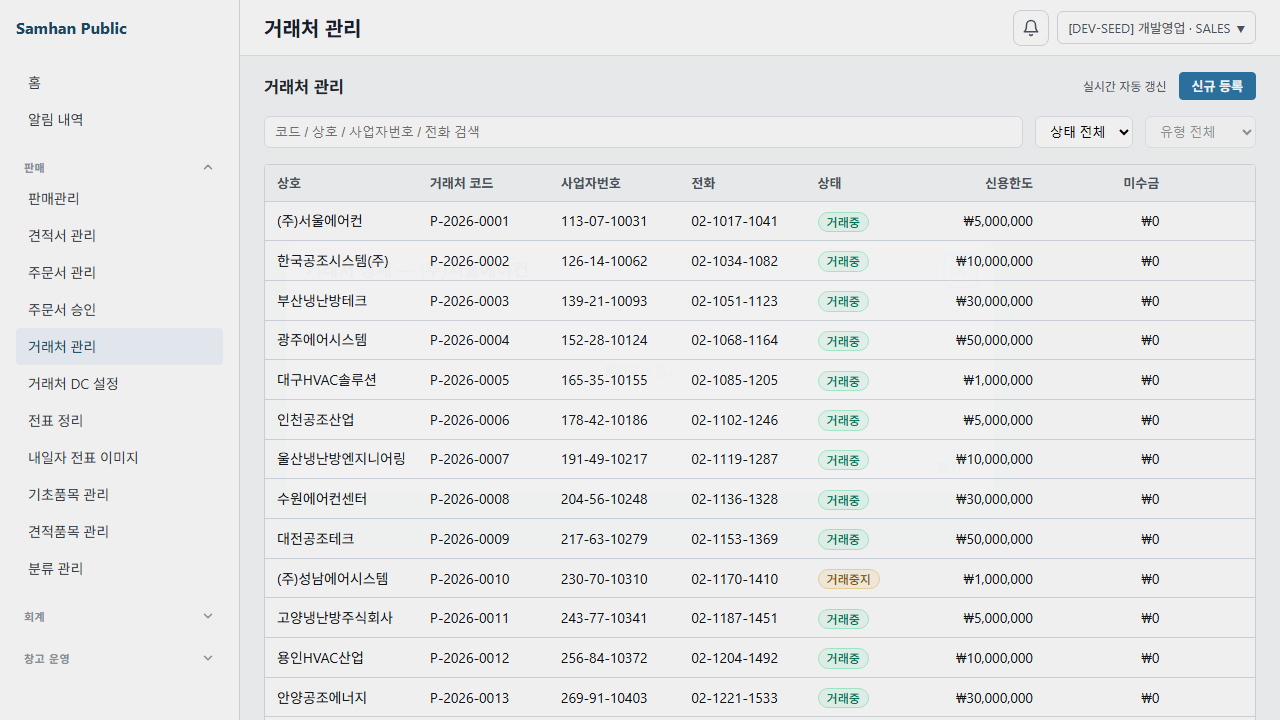
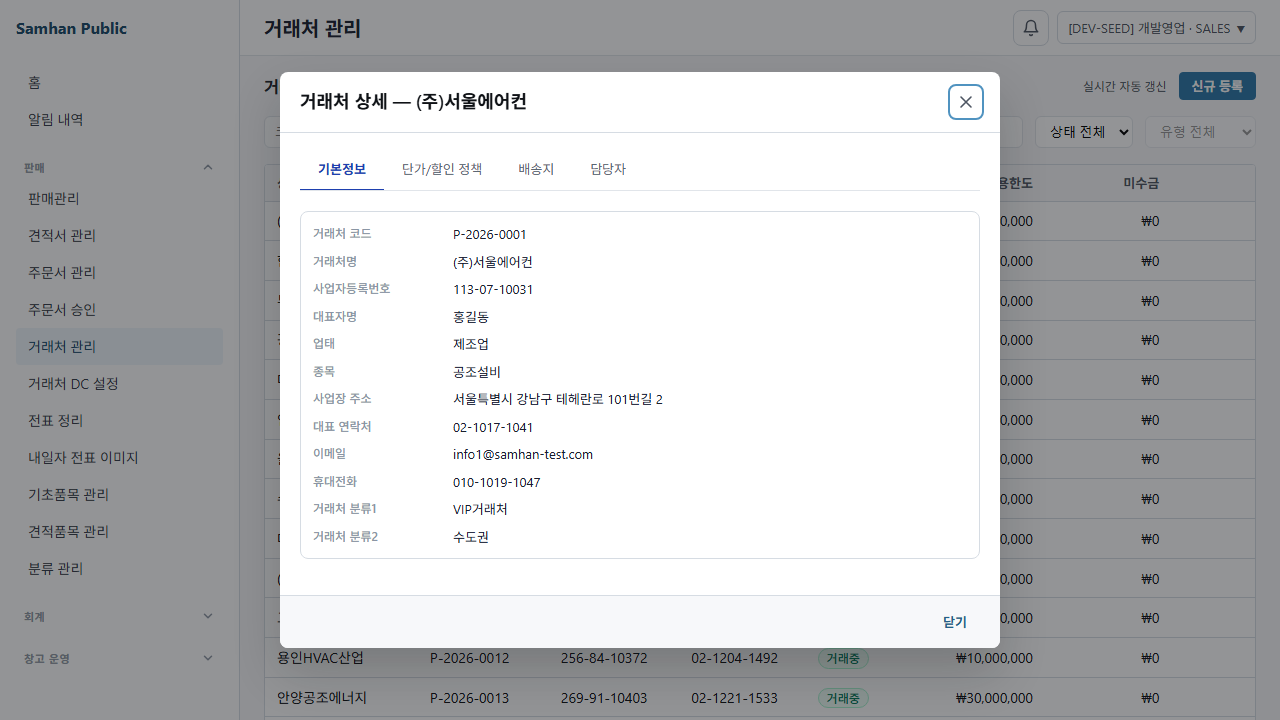
fix(#836): SOL R2 findings F1-F4 (CODEX LUNA·개발책임자 처분)
CODEX SOL R2 적대검증 HIGH0/MED4 개발책임자 처분대로 fix:
- F1(권한캐시 stale): handleLogout(AppLayout·PasswordChangePage)에서 logout 후
  queryClient.removeQueries(['permissions','my']) — 계정 전환 시 권한 fresh 재조회.
  usePermissions staleTime 5분 유지(전역 staleTime:0 미적용·개발책임자 결정).
- F2(버전이력 403·defect-family): PartnerDetailDialog 버전이력 탭/패널을
  canAccess('partners.4tab.edit','view') 보유 시에만 mount(SALES /revisions 403 차단)·
  복원 버튼 restore 가드. MASTER/MANAGER 무회귀. BE 1:1.
- F3(라이브QA 오라클): 네트워크 오라클 추가(목록 200·full 호출 여부·revisions 미호출).
- F4(스샷 전환): SALES 다이얼로그 캡처 전 전환 안정화 대기.
- 회귀 테스트: SALES 버전이력 탭 미노출·MASTER/MANAGER 노출(가드 제거 시 RED).

검증: vitest 6/6·Playwright 타깃 11/11 skipped0·typecheck/lint/build exit0·
라이브QA 2/2 재실행 PASS(SALES 다이얼로그 4탭·버전이력 부재 시각 확증).

Claude-Session: https://claude.ai/code/session_01AwKjyoHevj4u6hj7p6soK1

diff --git a/clients/desktop/playwright/836-partners-guard-real-qa/836-partners-guard-real-qa.spec.ts b/clients/desktop/playwright/836-partners-guard-real-qa/836-partners-guard-real-qa.spec.ts
@@ -32,6 +32,37 @@ async function capture(page: Page, name: string): Promise<void> {
   })
 }
 
+interface NetworkObservation {
+  method: string
+  status: number
+  url: string
+}
+
+function observeNetwork(page: Page): NetworkObservation[] {
+  const observations: NetworkObservation[] = []
+  page.on('response', (response) => {
+    const request = response.request()
+    observations.push({
+      method: request.method(),
+      status: response.status(),
+      url: response.url(),
+    })
+  })
+  return observations
+}
+
+function isPartnerListRequest(observation: NetworkObservation): boolean {
+  return observation.method === 'GET' && observation.url.includes('/admin/partners/search')
+}
+
+function isPartnerFullRequest(observation: NetworkObservation): boolean {
+  return observation.method === 'GET' && /\/partners\/[^/]+\/full(?:\?|$)/.test(observation.url)
+}
+
+function isPartnerRevisionRequest(observation: NetworkObservation): boolean {
+  return observation.method === 'GET' && /\/partners\/[^/]+\/revisions(?:\?|$)/.test(observation.url)
+}
+
 interface LoginResult { token: string; role: string; userId: string; displayName: string }
 
 async function realLogin(page: Page, loginId: string): Promise<LoginResult> {
@@ -63,11 +94,15 @@ async function gotoPartners(page: Page): Promise<void> {
 }
 
 test('#836 ACCOUNTANT 신규등록/행클릭 가드 — 실서버', async ({ page }) => {
+  const network = observeNetwork(page)
   const login = await realLogin(page, 'dev_accountant')
   expect(login.role, 'dev_accountant 역할').toBe('ACCOUNTANT')
   await installAuthStub(page, login)
 
   await gotoPartners(page)
+  const listResponse = network.find(isPartnerListRequest)
+  expect(listResponse, 'ACCOUNTANT 목록 API 미관측').toBeDefined()
+  expect(listResponse?.status, 'ACCOUNTANT 목록 API 상태').toBe(200)
   // 목록 자체는 열람 가능(partners.list view)
   const firstRow = page.getByTestId('admin-partners-table').locator('tbody tr').first()
   await expect(firstRow, '거래처 행 미렌더(목록 열람 실패)').toBeVisible({ timeout: 15_000 })
@@ -79,16 +114,21 @@ test('#836 ACCOUNTANT 신규등록/행클릭 가드 — 실서버', async ({ pag
   // 행클릭 → 상세 다이얼로그 미개봉
   await firstRow.click()
   await page.waitForTimeout(600)
+  expect(network.filter(isPartnerFullRequest), 'ACCOUNTANT 행클릭에서 full API가 호출됨').toHaveLength(0)
   await expect(page.getByRole('dialog', { name: /거래처 상세/ }), 'ACCOUNTANT 행클릭에 상세 다이얼로그 개봉됨').toHaveCount(0)
   await capture(page, 'accountant-rowclick-no-dialog')
 })
 
 test('#836 SALES 신규등록/행클릭 정상 — 실서버(무회귀)', async ({ page }) => {
+  const network = observeNetwork(page)
   const login = await realLogin(page, 'dev_sales')
   expect(login.role, 'dev_sales 역할').toBe('SALES')
   await installAuthStub(page, login)
 
   await gotoPartners(page)
+  const listResponse = network.find(isPartnerListRequest)
+  expect(listResponse, 'SALES 목록 API 미관측').toBeDefined()
+  expect(listResponse?.status, 'SALES 목록 API 상태').toBe(200)
   const firstRow = page.getByTestId('admin-partners-table').locator('tbody tr').first()
   await expect(firstRow).toBeVisible({ timeout: 15_000 })
 
@@ -99,5 +139,10 @@ test('#836 SALES 신규등록/행클릭 정상 — 실서버(무회귀)', async 
   // 행클릭 → 상세 다이얼로그 개봉
   await firstRow.click()
   await expect(page.getByRole('dialog', { name: /거래처 상세/ }), 'SALES 행클릭에 상세 다이얼로그 미개봉').toBeVisible({ timeout: 15_000 })
+  await expect.poll(() => network.filter(isPartnerFullRequest).length, 'SALES full API 미관측').toBe(1)
+  const fullResponse = network.find(isPartnerFullRequest)
+  expect(fullResponse?.status, 'SALES full API 상태').toBe(200)
+  await page.waitForTimeout(500)
+  expect(network.filter(isPartnerRevisionRequest), 'SALES 상세 진입에서 버전이력 API가 호출됨').toHaveLength(0)
   await capture(page, 'sales-rowclick-dialog-open')
 })

diff --git a/clients/desktop/playwright/partner-accountant-4tab-guard/partner-accountant-4tab-guard.spec.ts b/clients/desktop/playwright/partner-accountant-4tab-guard/partner-accountant-4tab-guard.spec.ts
@@ -53,4 +53,30 @@ test.describe('#836 거래처 4탭 ACCOUNTANT/SALES mock parity', () => {
     await page.goto(SALES_NEW_URL, { waitUntil: 'domcontentloaded' })
     await expect(page.getByTestId('partner-create-form')).toBeVisible()
   })
+
+  test('SALES — partners.4tab.edit 미보유 시 버전 이력 탭과 패널이 노출되지 않는다', async ({ page }) => {
+    await openPartnersPage(page, 'SALES')
+
+    await page.getByTestId('admin-partners-row-1234567890').click()
+    await expect(page.getByRole('dialog', { name: /거래처 상세/ })).toBeVisible()
+    await expect(page.getByRole('tab', { name: '버전 이력' })).toHaveCount(0)
+    await expect(page.getByTestId('partner-version-history-panel')).toHaveCount(0)
+  })
+
+  for (const role of ['MASTER', 'MANAGER'] as const) {
+    test(`${role} — partners.4tab.edit VIEW 보유 시 버전 이력 탭이 노출된다`, async ({ page }) => {
+      await page.goto(`${PARTNERS_PATH}?mockRole=${role}`, { waitUntil: 'domcontentloaded' })
+      await expect(page.getByTestId('admin-partners-table')).toBeVisible()
+
+      await page.getByTestId('admin-partners-row-1234567890').click()
+      await expect(page.getByRole('dialog', { name: /거래처 상세/ })).toBeVisible()
+      await expect(page.getByRole('tab', { name: '버전 이력' })).toBeVisible()
+
+      if (role === 'MANAGER') {
+        await page.getByRole('tab', { name: '버전 이력' }).click()
+        await expect(page.getByTestId('partner-version-history-panel')).toBeVisible()
+        await expect(page.getByTestId('partner-version-history-restore-button-1')).toHaveCount(0)
+      }
+    })
+  }
 })

diff --git a/clients/desktop/src/renderer/routes/admin/PartnerDetailDialog.tsx b/clients/desktop/src/renderer/routes/admin/PartnerDetailDialog.tsx
@@ -85,6 +85,8 @@ export function PartnerDetailDialog({
   const queryClient = useQueryClient()
   const { canAccess } = usePermissions()
   const canEdit = canAccess('partners.4tab.edit', 'update')
+  const canViewVersionHistory = canAccess('partners.4tab.edit', 'view')
+  const visibleTabs = canViewVersionHistory ? TABS : TABS.slice(0, -1)
   const [activeTab, setActiveTab] = useState(0)
   const [editing, setEditing] = useState(false)
   const [editData, setEditData] = useState<PartnerFullRequest | null>(
@@ -254,8 +256,8 @@ export function PartnerDetailDialog({
             </div>
           ) : null}
           <Tabs
-            tabs={TABS}
-            activeIndex={activeTab}
+            tabs={visibleTabs}
+            activeIndex={Math.min(activeTab, visibleTabs.length - 1)}
             onTabChange={setActiveTab}
             ariaLabel="거래처 상세 탭"
           >
@@ -318,11 +320,13 @@ export function PartnerDetailDialog({
               }
             />
 
-            {/* 탭 5: 버전 이력 + 복원 (Phase 2.3 Task 6) — status 는 조회 데이터에서 파생 */}
-            <PartnerVersionHistoryPanel
-              partnerCode={query.data.basic.partnerCode}
-              status={query.data.basic.status}
-            />
+            {/* 탭 5: 버전 이력 + 복원 (Phase 2.3 Task 6) — 조회 권한 보유 시에만 mount */}
+            {canViewVersionHistory ? (
+              <PartnerVersionHistoryPanel
+                partnerCode={query.data.basic.partnerCode}
+                status={query.data.basic.status}
+              />
+            ) : null}
           </Tabs>
         </>
       ) : null}

diff --git a/clients/desktop/src/renderer/components/audit/PartnerVersionHistoryPanel.tsx b/clients/desktop/src/renderer/components/audit/PartnerVersionHistoryPanel.tsx
@@ -27,6 +27,7 @@ import {
   type PartnerRevisionType,
 } from '../../api/partnerRevision'
 import { type PartnerStatus } from '../../api/adminApi'
+import { usePermissions } from '../../hooks/usePermissions'
 
 export interface PartnerVersionHistoryPanelProps {
   /** 거래처 코드 — react-query 키 + API path 전용 (UUID 아님, 화면 표시 식별자). */
@@ -99,6 +100,7 @@ export function PartnerVersionHistoryPanel({
   status,
 }: PartnerVersionHistoryPanelProps) {
   const queryClient = useQueryClient()
+  const { canAccess } = usePermissions()
   /** 복원 confirm modal 대상 revision (null = 미오픈). */
   const [restoreTarget, setRestoreTarget] = useState<PartnerRevision | null>(null)
   /** 복원 성공/실패 toast. */
@@ -106,6 +108,7 @@ export function PartnerVersionHistoryPanel({
 
   /** 거래종료 상태면 복원 버튼 비활성 (BE 가 409 거절). */
   const restorable = isRestorableStatus(status)
+  const canRestore = canAccess('partners.4tab.edit', 'restore')
 
   const revisionsQuery = useQuery({
     queryKey: ['partnerRevisions', partnerCode],
@@ -275,7 +278,7 @@ export function PartnerVersionHistoryPanel({
                     {formatChangeSummary(rev)}
                   </span>
                 </div>
-                {!isLatest ? (
+                {!isLatest && canRestore ? (
                   <Button
                     variant="secondary"
                     size="sm"

diff --git a/clients/desktop/src/renderer/components/__tests__/AppLayout.drawer.test.tsx b/clients/desktop/src/renderer/components/__tests__/AppLayout.drawer.test.tsx
@@ -5,11 +5,20 @@ import { afterEach, describe, expect, test, vi } from 'vitest'
 import { MemoryRouter, Route, Routes, useNavigate } from 'react-router-dom'
 import { AppLayout } from '../AppLayout'
 
+const mocks = vi.hoisted(() => ({
+  logout: vi.fn(async () => undefined),
+  removeQueries: vi.fn(),
+}))
+
+vi.mock('@tanstack/react-query', () => ({
+  useQueryClient: () => ({ removeQueries: mocks.removeQueries }),
+}))
+
 vi.mock('../../stores/session', () => ({
   useSessionStore: (selector: (state: { auth: { fullName: string; role: string }; logout: () => Promise<void> }) => unknown) =>
     selector({
       auth: { fullName: '오병승', role: 'MASTER' },
-      logout: vi.fn(async () => undefined),
+      logout: mocks.logout,
     }),
 }))
 
@@ -131,5 +140,16 @@ describe('AppLayout mobile drawer', () => {
     fireEvent.click(toggle)
     fireEvent.click(backdrop)
     expect(getDrawer().classList.contains('is-open')).toBe(false)
+  })
+
+  test('로그아웃 후 권한 캐시를 제거한다', async () => {
+    renderApp()
+
+    fireEvent.click(screen.getByTestId('header-user-name'))
+    fireEvent.click(screen.getByRole('menuitem', { name: '로그아웃' }))
+
+    await waitFor(() => {
+      expect(mocks.removeQueries).toHaveBeenCalledWith({ queryKey: ['permissions', 'my'] })
+    })
   })
 })

diff --git a/clients/desktop/src/renderer/routes/PasswordChangePage.tsx b/clients/desktop/src/renderer/routes/PasswordChangePage.tsx
@@ -23,7 +23,7 @@
  * - password-change-submit
  */
 import { useEffect, useState, type FormEvent } from 'react'
-import { useMutation, useQuery } from '@tanstack/react-query'
+import { useMutation, useQuery, useQueryClient } from '@tanstack/react-query'
 import { useNavigate } from 'react-router-dom'
 import { Button, Card, FormField } from '@samhan/design-system'
 import axios from 'axios'
@@ -33,6 +33,7 @@ import { usePageTitleStore } from '../stores/pageTitle'
 
 export function PasswordChangePage() {
   const navigate = useNavigate()
+  const queryClient = useQueryClient()
   const logout = useSessionStore((s) => s.logout)
   const setPageTitle = usePageTitleStore((s) => s.setPageTitle)
 
@@ -72,6 +73,7 @@ export function PasswordChangePage() {
   /** 변경 성공 후 로그아웃 + login 화면 강제 이동. */
   const handleProceedToLogin = async () => {
     await logout()
+    queryClient.removeQueries({ queryKey: ['permissions', 'my'] })
     navigate('/login', { replace: true })
   }
 

diff --git a/clients/desktop/src/renderer/components/AppLayout.tsx b/clients/desktop/src/renderer/components/AppLayout.tsx
@@ -34,6 +34,7 @@
  * - 외부 클릭 / Esc 키 dropdown 자동 닫기
  */
 import { useEffect, useRef, useState } from 'react'
+import { useQueryClient } from '@tanstack/react-query'
 import { NavLink, Outlet, useLocation, useNavigate } from 'react-router-dom'
 import { useSessionStore } from '../stores/session'
 import { usePageTitleStore } from '../stores/pageTitle'
@@ -319,6 +320,7 @@ export function AppLayout() {
   const meta = usePageTitleStore((s) => s.meta)
   const location = useLocation()
   const navigate = useNavigate()
+  const queryClient = useQueryClient()
 
   const [userMenuOpen, setUserMenuOpen] = useState(false)
   const [drawerOpen, setDrawerOpen] = useState(false)
@@ -450,6 +452,7 @@ export function AppLayout() {
   const handleLogout = async () => {
     setUserMenuOpen(false)
     await logout()
+    queryClient.removeQueries({ queryKey: ['permissions', 'my'] })
     navigate('/login', { replace: true })
   }
 
